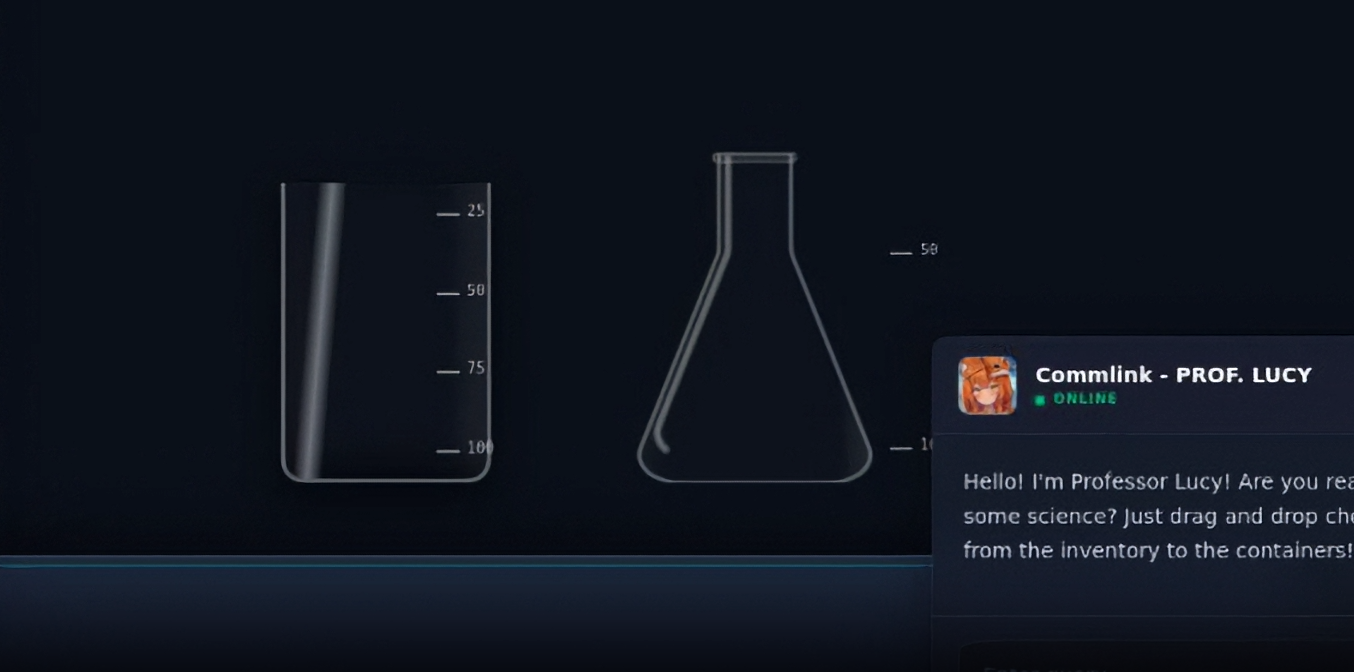
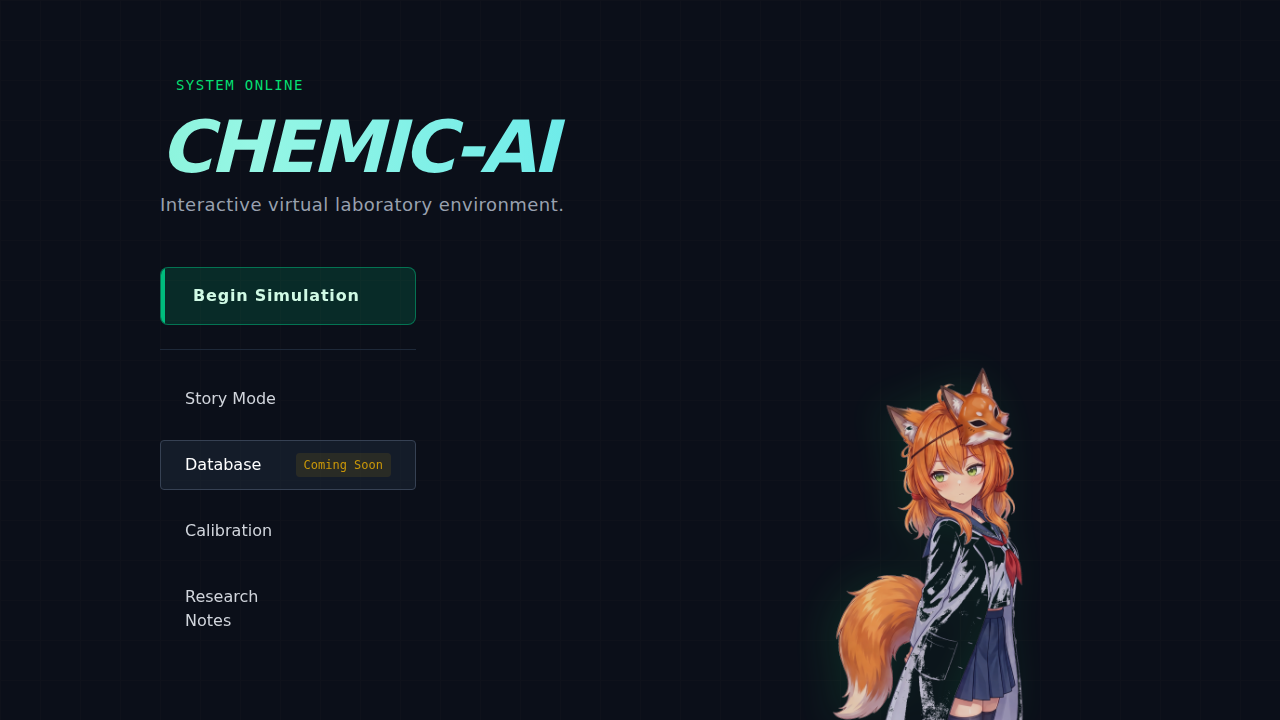
feat: Overhaul Main Menu and Loading Screen UI
- Implement an interactive "Miside"-style Main Menu with a parallax effect, dynamic chat box, and clickable character reactions for "Professor Lucy".
- Replace the static background in Main Menu with a gradient text animation and interactive elements.
- Overhaul the Loading Screen with a high-tech sci-fi aesthetic, adding a glowing "Quantum Tech-Ring" spinner, scrolling hex codes, and a typewriter text sequence.
- Process and convert the provided green-screen character asset to a clean, transparent PNG.

diff --git a/src/ui/LoadingScreen.tsx b/src/ui/LoadingScreen.tsx
@@ -1,16 +1,93 @@
 import React, { useEffect, useState } from 'react';
 import { useSimulationStore } from '../engine/store';
 
+const loadingPhrases = [
+  'Loading Molecular Database...',
+  'Calibrating WebGL Engine...',
+  'Initializing AI_Sprite_Core...',
+  'Establishing Quantum Link...'
+];
+
+const generateHexCode = () => {
+  const chars = '0123456789ABCDEF';
+  let result = '';
+  for (let i = 0; i < 8; i++) {
+    result += chars.charAt(Math.floor(Math.random() * chars.length));
+  }
+  return result;
+};
+
+const BackgroundCode: React.FC = () => {
+  const [columns, setColumns] = useState<string[][]>([]);
+  const [durations, setDurations] = useState<number[]>([]);
+
+  useEffect(() => {
+    const colCount = Math.floor(window.innerWidth / 30);
+    const initialColumns = Array(colCount).fill(null).map(() =>
+      Array(20).fill(null).map(() => generateHexCode())
+    );
+    setColumns(initialColumns);
+    setDurations(Array(colCount).fill(0).map(() => 10 + Math.random() * 10));
+
+    const interval = setInterval(() => {
+      setColumns(prev => prev.map(col => {
+        const newCol = [...col];
+        newCol.pop();
+        newCol.unshift(generateHexCode());
+        return newCol;
+      }));
+    }, 150);
+
+    return () => clearInterval(interval);
+  }, []);
+
+  return (
+    <div className="absolute inset-0 overflow-hidden opacity-10 flex justify-between pointer-events-none z-0">
+      {columns.map((col, i) => (
+        <div key={i} className="flex flex-col text-[#00FFFF] font-mono text-xs opacity-50" style={{ animation: `scrollDown ${durations[i]}s linear infinite` }}>
+          {col.map((code, j) => (
+            <div key={j} className="mb-1">{code}</div>
+          ))}
+        </div>
+      ))}
+    </div>
+  );
+};
+
 const LoadingScreen: React.FC = () => {
   const setAppState = useSimulationStore(state => state.setAppState);
   const [progress, setProgress] = useState(0);
+  const [phraseIndex, setPhraseIndex] = useState(0);
+  const [typedText, setTypedText] = useState('');
+
+  // Typewriter effect
+  useEffect(() => {
+    const currentPhrase = loadingPhrases[phraseIndex];
+    let i = 0;
+    setTypedText('');
+
+    const interval = setInterval(() => {
+      if (i < currentPhrase.length) {
+        setTypedText(prev => prev + currentPhrase.charAt(i));
+        i++;
+      } else {
+        clearInterval(interval);
+      }
+    }, 50); // Typing speed
+
+    return () => clearInterval(interval);
+  }, [phraseIndex]);
 
   useEffect(() => {
     // Simulate loading process
-    const duration = 2500; // 2.5 seconds loading
+    const duration = 4000; // 4 seconds loading to show off effects
     const interval = 50; // Update every 50ms
     const steps = duration / interval;
     let currentStep = 0;
+
+    const phraseSwitchInterval = setInterval(() => {
+      setPhraseIndex(prev => (prev + 1) % loadingPhrases.length);
+    }, 1200);
 
     const timer = setInterval(() => {
       currentStep++;
@@ -18,38 +95,71 @@ const LoadingScreen: React.FC = () => {
 
       if (currentStep >= steps) {
         clearInterval(timer);
+        clearInterval(phraseSwitchInterval);
         setTimeout(() => {
           setAppState('WORKBENCH');
         }, 300); // small delay after reaching 100%
       }
     }, interval);
 
-    return () => clearInterval(timer);
+    return () => {
+      clearInterval(timer);
+      clearInterval(phraseSwitchInterval);
+    };
   }, [setAppState]);
 
   return (
-    <div className="absolute inset-0 z-50 flex flex-col items-center justify-center bg-[#0b0f19] text-green-400 font-mono">
-      <div className="w-64">
-        <h2 className="text-xl mb-4 tracking-widest text-center animate-pulse">
-          INITIALIZING...
-        </h2>
-        <div className="w-full h-2 bg-gray-800 rounded overflow-hidden relative">
+    <div className="absolute inset-0 z-50 flex flex-col items-center justify-center bg-[#050B14] text-[#00FFFF] font-mono overflow-hidden">
+
+      <BackgroundCode />
+
+      <div className="relative z-10 flex flex-col items-center">
+        {/* Quantum Tech-Ring Spinner */}
+        <div className="relative w-48 h-48 mb-12 flex items-center justify-center">
+          {/* Outer Ring */}
+          <div className="absolute inset-0 border-4 border-t-[#00FFFF] border-r-transparent border-b-[#00FFFF]/30 border-l-transparent rounded-full animate-spin shadow-[0_0_30px_rgba(0,255,255,0.4)]" style={{ animationDuration: '3s' }}></div>
+          {/* Middle Ring (spins opposite) */}
+          <div className="absolute inset-4 border-2 border-r-[#00FFFF]/80 border-b-transparent border-l-[#00FFFF]/20 border-t-transparent rounded-full animate-[spin_2s_linear_infinite_reverse]"></div>
+          {/* Inner Ring */}
+          <div className="absolute inset-8 border-4 border-dashed border-[#00FFFF]/50 rounded-full animate-[spin_4s_linear_infinite]"></div>
+          {/* Core Glow */}
+          <div className="absolute w-16 h-16 bg-[#00FFFF]/20 rounded-full blur-xl animate-pulse"></div>
+          {/* Center text percentage */}
+          <div className="absolute text-2xl font-bold tracking-widest text-[#00FFFF] drop-shadow-[0_0_8px_#00FFFF]">
+            {Math.floor(progress)}%
+          </div>
+        </div>
+
+        {/* Typewriter Text */}
+        <div className="h-6 mb-4 flex items-center justify-center">
+          <p className="text-sm tracking-widest text-[#00FFFF] font-medium shadow-cyan-500/50">
+            {typedText}
+            <span className="inline-block w-2 h-4 bg-[#00FFFF] ml-1 animate-pulse"></span>
+          </p>
+        </div>
+
+        {/* Progress Bar */}
+        <div className="w-80 h-1 bg-[#00FFFF]/10 rounded-full overflow-hidden relative shadow-[0_0_10px_rgba(0,255,255,0.2)]">
           <div
-            className="h-full bg-green-500 shadow-[0_0_10px_#22c55e]"
+            className="h-full bg-[#00FFFF] shadow-[0_0_15px_#00FFFF]"
             style={{ width: `${progress}%`, transition: 'width 0.05s linear' }}
           ></div>
-        </div>
-        <div className="mt-2 text-xs text-right text-green-500 opacity-70">
-          {Math.floor(progress)}%
         </div>
       </div>
 
       {/* Decorative tech elements */}
-      <div className="absolute bottom-10 left-10 text-xs opacity-50 space-y-1">
-        <p>Sys_Diag: OK</p>
-        <p>Mem_Bank: ALLOCATED</p>
-        <p>Core_Temp: STABLE</p>
+      <div className="absolute bottom-10 left-10 text-xs opacity-50 space-y-1 font-mono tracking-widest z-10 text-[#00FFFF]">
+        <p className="flex justify-between w-40"><span>Sys_Diag:</span> <span className="text-[#00FFFF] font-bold">OK</span></p>
+        <p className="flex justify-between w-40"><span>Mem_Bank:</span> <span className="text-[#00FFFF] font-bold">ALLOCATED</span></p>
+        <p className="flex justify-between w-40"><span>Core_Temp:</span> <span className="text-[#00FFFF] font-bold">STABLE</span></p>
       </div>
+
+      <style>{`
+        @keyframes scrollDown {
+          0% { transform: translateY(-100%); }
+          100% { transform: translateY(100%); }
+        }
+      `}</style>
     </div>
   );
 };

diff --git a/src/ui/MainMenu.tsx b/src/ui/MainMenu.tsx
@@ -1,9 +1,13 @@
-import React, { useState } from 'react';
+import React, { useState, useEffect } from 'react';
 import { useSimulationStore } from '../engine/store';
 
 const MainMenu: React.FC = () => {
   const setAppState = useSimulationStore(state => state.setAppState);
   const [hoveredButton, setHoveredButton] = useState<string | null>(null);
+
+  // Interactive state
+  const [mousePos, setMousePos] = useState({ x: 0, y: 0 });
+  const [dialogue, setDialogue] = useState("System online! Welcome to the Chemic-AI Quantum Engine, Researcher! I'm Professor Lucy. Are we ready to synthesize something amazing today? :3");
 
   const handleStart = () => {
     setAppState('LOADING');
@@ -11,24 +15,64 @@ const MainMenu: React.FC = () => {
 
   const handleDisabledClick = (e: React.MouseEvent) => {
     e.preventDefault();
-    // In a real app we might show a toast, but we can also handle it simply
+  };
+
+  const handleMouseMove = (e: React.MouseEvent) => {
+    // Calculate mouse position relative to center of screen, from -1 to 1
+    const x = (e.clientX / window.innerWidth - 0.5) * 2;
+    const y = (e.clientY / window.innerHeight - 0.5) * 2;
+    setMousePos({ x, y });
+  };
+
+  const handleHeadPet = () => {
+    setDialogue("W-wait, hey! what are you doing? i didn't allow you to ...b-but I suppose this is fine... just don't mess up my ears! >///<");
   };
 
   return (
-    <div className="absolute inset-0 z-50 bg-[#0b0f19] text-white flex items-center justify-center overflow-hidden font-sans">
+    <div
+      className="absolute inset-0 z-50 bg-[#0b0f19] text-white flex items-center justify-center overflow-hidden font-sans"
+      onMouseMove={handleMouseMove}
+    >
       {/* Background styling / Grid */}
       <div className="absolute inset-0 opacity-10"
            style={{ backgroundImage: 'linear-gradient(#333 1px, transparent 1px), linear-gradient(90deg, #333 1px, transparent 1px)', backgroundSize: '40px 40px' }}
       />
 
-      {/* Professor Lucy Image */}
-      <div className="absolute right-0 bottom-0 h-[90vh] w-[50vw] pointer-events-none opacity-90 transition-transform duration-[3s] ease-out hover:scale-105 origin-bottom-right">
-        {/* We use the transparent asset */}
+      {/* Professor Lucy Interactive Container */}
+      <div
+        className="absolute right-0 bottom-0 h-[90vh] w-[50vw] transition-transform duration-100 ease-out origin-bottom-right"
+        style={{
+          transform: `translate(${mousePos.x * -20}px, ${mousePos.y * -10}px) rotate(${mousePos.x * 1.5}deg) scale(1.02)`,
+        }}
+      >
         <img
           src="/assets/lucy-transparent.png"
           alt="Professor Lucy"
-          className="object-contain h-full w-full object-right-bottom drop-shadow-[-10px_0_20px_rgba(34,197,94,0.15)]"
+          className="object-contain h-full w-full object-right-bottom drop-shadow-[-10px_0_20px_rgba(34,197,94,0.15)] pointer-events-none"
         />
+
+        {/* Head hit box for interaction */}
+        <div
+          onClick={handleHeadPet}
+          className="absolute top-[10%] left-[35%] w-[30%] h-[30%] cursor-pointer z-50"
+          style={{ borderRadius: '50%' }}
+          title="Pet head"
+        />
+
+        {/* Chat Box */}
+        <div className="absolute top-[30%] left-[0%] w-[300px] bg-[#111827]/90 border border-emerald-500/50 rounded-xl p-4 shadow-[0_0_15px_rgba(16,185,129,0.3)] backdrop-blur-md transform -translate-x-1/2 -translate-y-1/2 pointer-events-none">
+          {/* Chat bubble tail */}
+          <div className="absolute right-[-10px] top-[20px] w-0 h-0 border-t-[10px] border-t-transparent border-l-[10px] border-l-[#111827]/90 border-b-[10px] border-b-transparent z-10"></div>
+          <div className="absolute right-[-12px] top-[19px] w-0 h-0 border-t-[11px] border-t-transparent border-l-[11px] border-l-emerald-500/50 border-b-[11px] border-b-transparent z-0"></div>
+
+          <div className="flex items-center gap-2 mb-2">
+            <span className="font-bold text-emerald-400">Prof. Lucy</span>
+            <span className="text-xs text-emerald-500/50 font-mono">AI_CORE_ACTIVE</span>
+          </div>
+          <p className="text-gray-200 text-sm leading-relaxed font-medium">
+            {dialogue}
+          </p>
+        </div>
       </div>
 
       <div className="z-10 w-full max-w-5xl px-8 flex flex-col justify-center h-full">
@@ -40,8 +84,8 @@ const MainMenu: React.FC = () => {
           </div>
 
           {/* Title with Gradient Animation */}
-          <h1 className="text-7xl font-black italic tracking-tighter mb-2 bg-gradient-to-r from-emerald-400 via-teal-200 to-cyan-400 text-transparent bg-clip-text"
-              style={{ backgroundSize: '200% auto', animation: 'gradient 4s linear infinite' }}>
+          <h1 className="text-7xl font-black italic tracking-tighter mb-2 bg-gradient-to-r from-[#00ff87] via-[#60efff] to-[#0061ff] text-transparent bg-clip-text animate-[gradient_3s_ease_infinite]"
+              style={{ backgroundSize: '300% auto' }}>
             CHEMIC-AI
           </h1>
           <p className="text-gray-400 text-lg tracking-wide max-w-md">
